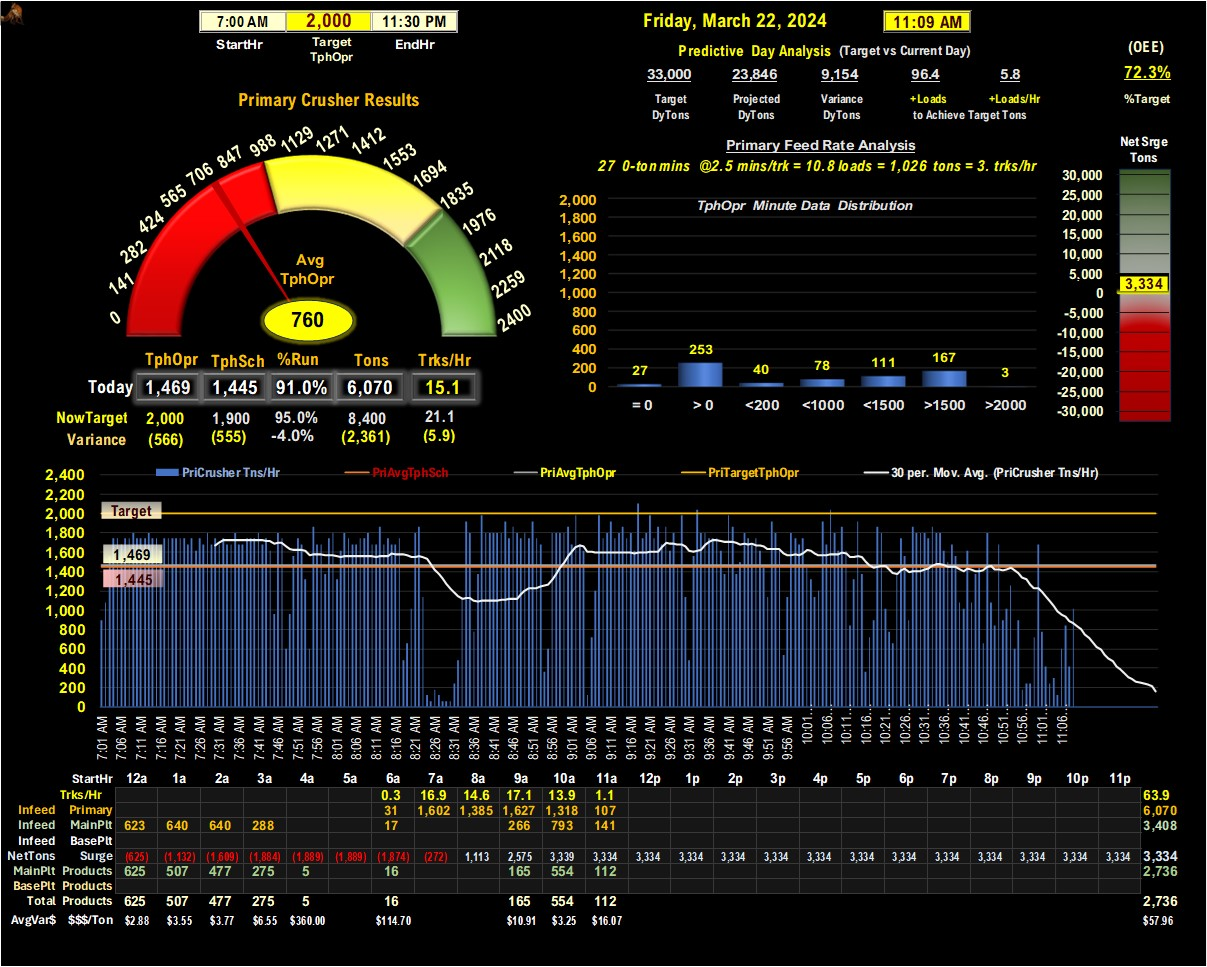
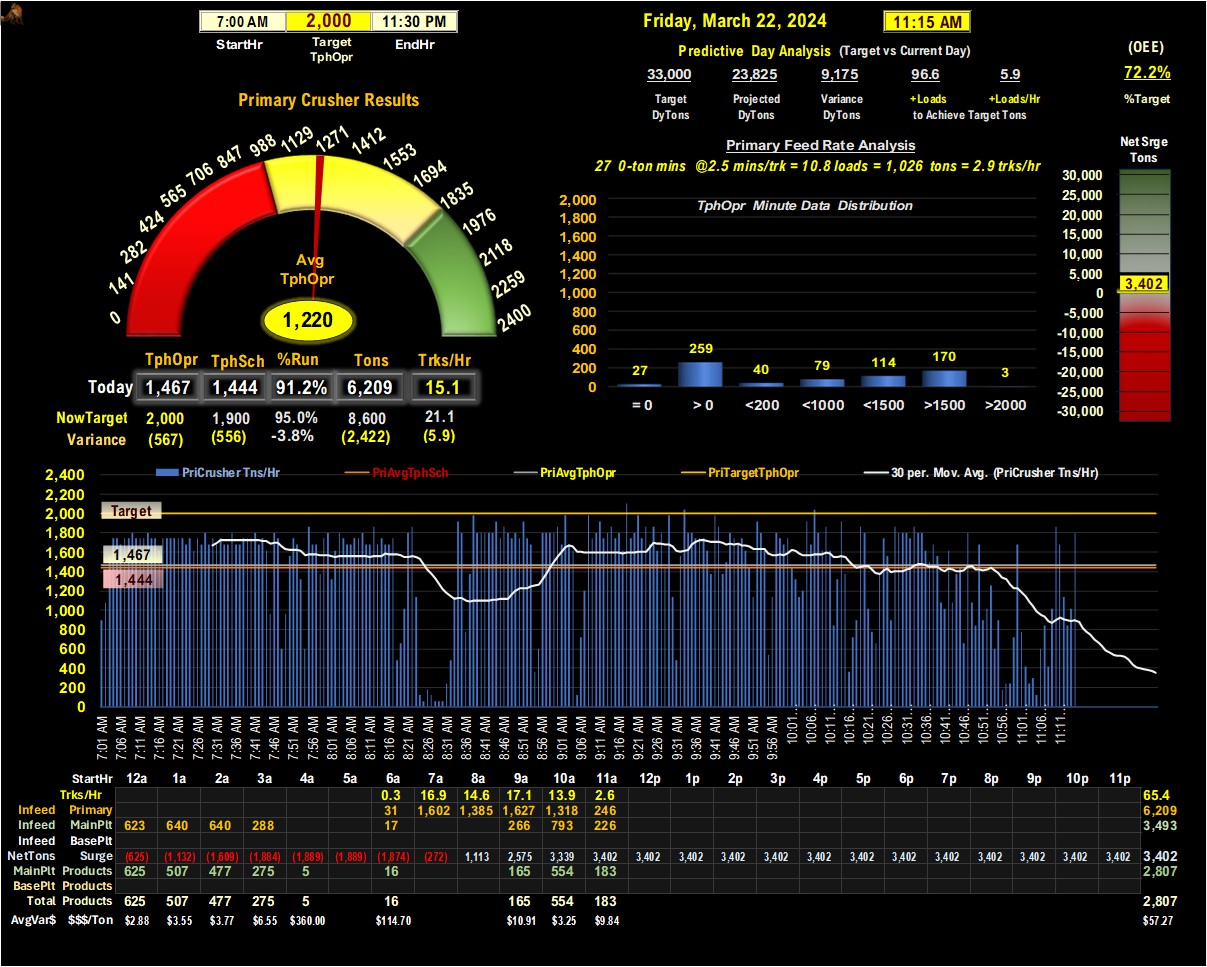
new commit

diff --git a/ColLSPri1.py b/ColLSPri1.py
@@ -51,40 +51,36 @@ def load_image(image_path):
     return Image.open(image_path)
 
 def main():
-    while True:
-        # Run the shell script to refresh data
-        try:
-            subprocess.call(["C:/pyPri/pushOlenPrimary.bat"])  # Update with the correct path
-        except Exception as e:
-            print("Error executing pushOlenPrimary.bat:", e)
+    # Run the shell script to refresh data
+    try:
+        subprocess.call(["C:/pyPri/pushOlenPrimary.bat"])  # Update with the correct path
+    except Exception as e:
+        print("Error executing pushOlenPrimary.bat:", e)
 
-        # Inject custom CSS for sidebar background color
-        st.markdown(
-            """
-            <style>
-            .sidebar .sidebar-content {
-                background-color: #000080; /* Dark blue sidebar background */
-                color: white; /* Text color */
-            }
-            </style>
-            """,
-            unsafe_allow_html=True
-        )
+    # Inject custom CSS for sidebar background color
+    st.markdown(
+        """
+        <style>
+        .sidebar .sidebar-content {
+            background-color: #000080; /* Dark blue sidebar background */
+            color: white; /* Text color */
+        }
+        </style>
+        """,
+        unsafe_allow_html=True
+    )
 
-        # Local path to the image
-        image_path = "ColLSToday1.jpg"
+    # Local path to the image
+    image_path = "ColLSToday1.jpg"
 
-        # Load the image using the cached function
-        image = load_image(image_path)
+    # Load the image using the cached function
+    image = load_image(image_path)
 
-        # Display the image to automatically resize with the column width
-        st.image(image, use_column_width=True)
+    # Display the image to automatically resize with the column width
+    st.image(image, use_column_width=True)
 
-        # Wait for 30 seconds before the next iteration
-        time.sleep(30)  
-
-        # Rerun the Streamlit app
-        st.experimental_rerun()
+    # Rerun the Streamlit app after 30 seconds
+    st.experimental_set_query_params(**{"time": time.time()})
 
 if __name__ == '__main__':
     main()
